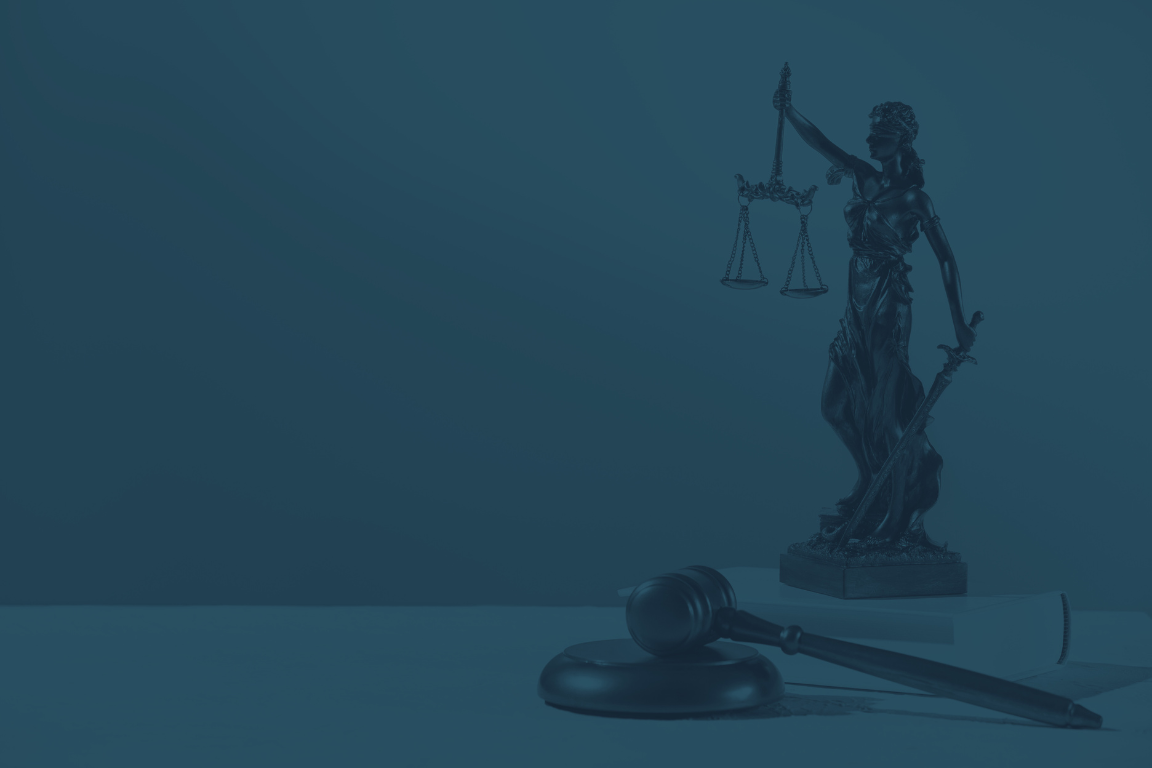
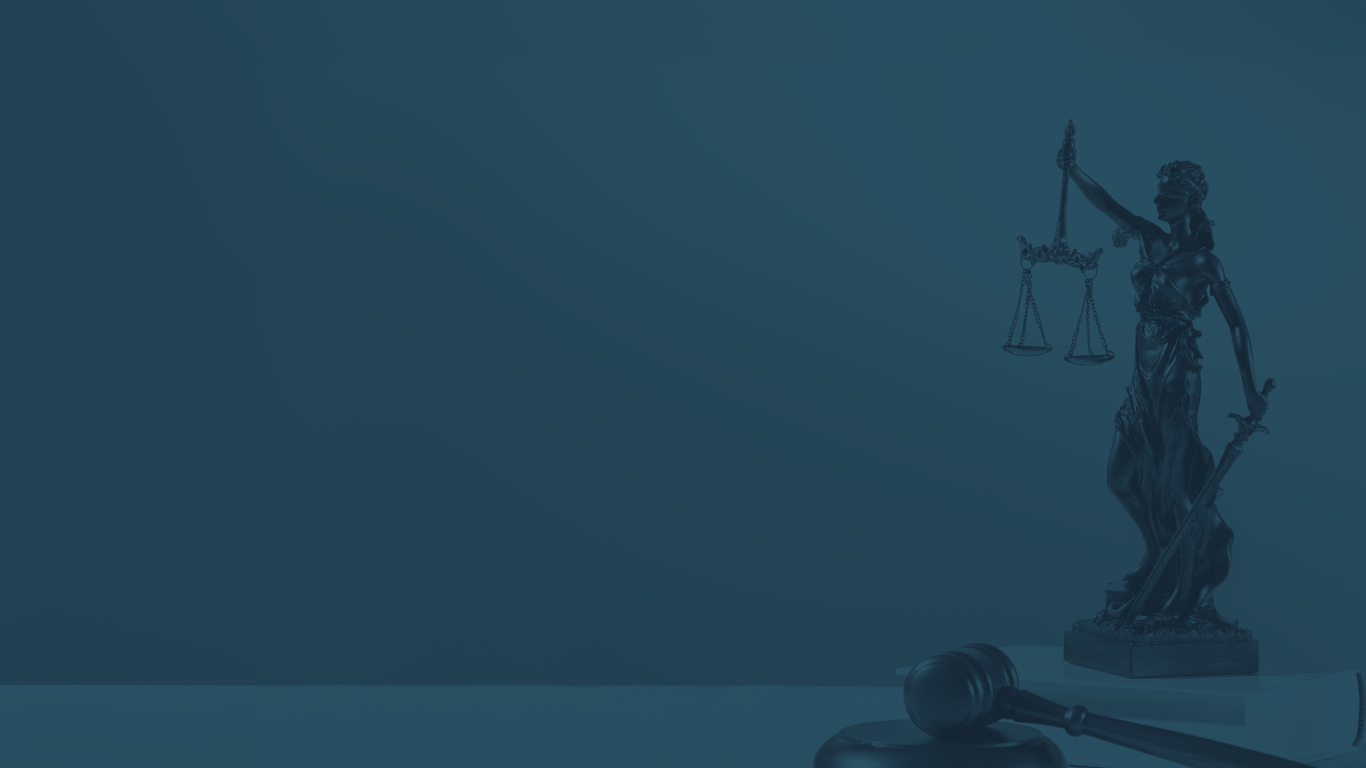
login page re-design

Changed region(s): [[0.4688, 0.0938, 0.9688, 1.0], [0.625, 0.3438, 0.6562, 0.375]]

diff --git a/src/screens/LoginScreen.css b/src/screens/LoginScreen.css
@@ -1,5 +1,12 @@
 body {
-    background-color: #333e54;
+    background-color: #295264;
+    background-image: url(../assets/images/blue_bg.png);
+    background-size: cover;
+    background-position: center;
+    background-repeat: no-repeat;
+    height: 100vh;
+
+    font-family: 'Poppins', sans-serif;
     display: flex;
     justify-content: center;
     align-items: center;
@@ -7,34 +14,56 @@ body {
     margin: 0;
 }
 
+body::before {
+    content: "";
+    position: absolute;
+    top: 0;
+    left: 0;
+    right: 0;
+    bottom: 0;
+    background-image: inherit; /* Usa a mesma imagem */
+    background-size: inherit;
+    background-position: inherit;
+    filter: blur(2px); /* Intensidade do blur */
+    z-index: -1;
+}
 
 .login-container {
-    width: 500px;
+    min-width: 35vw;
+    min-height: 40vh;
     background-color: #fff;
     padding: 40px 30px;
-    border-radius: 10px;
-    box-shadow: 0 4px 20px rgba(0, 0, 0, 0.2);
+    border-radius: 35px;
+    box-shadow: 0 4px 20px #142433;
     text-align: center;
+    font-family: 'Poppins', sans-serif;
 }
 
 .login-container h1 {
-    font-size: 24px;
-    color: #000000;
-    margin-bottom: 20px;
-    font-weight: bold;
+    font-size: 25px;
+    color: #142433;
+    margin-bottom: 0px;
+    font-weight: bolder;
+}
+
+.login-container .welcome-subtitle {
+    font-size: 20px;
+    color: #142433;
+    margin-bottom: 6px;
+    font-weight: normal;
 }
 
 .login-container .login-input-field {
     position: relative;
-    margin-bottom: 20px;
+    margin: 20px 0;
 }
 
 .login-input-field input {
     width: 100%;
     padding: 20px;
-    border-radius: 8px;
-    border: 1px solid #000000;
-    font-size: 16px;
+    border-radius: 30px;
+    border: 2px solid #FAD9A6;
+    font-size: 15px;
     outline: none;
     box-sizing: border-box;
 }
@@ -44,7 +73,7 @@ body {
     top: 50%;
     right: 15px;
     transform: translateY(-50%);
-    color: #000000;
+    color: #FAD9A6;
     font-size: 18px;
 }
 
@@ -53,10 +82,11 @@ body {
     justify-content: space-between;
     font-size: 14px;
     margin-bottom: 20px;
+    margin-left: 10px;
 }
 
 .login-password-forget a {
-    color: #333e54;
+    color: #142433;
     text-decoration: none;
 }
 
@@ -65,9 +95,9 @@ body {
 }
 
 .login-container button {
-    width: 50%;
+    width: 70%;
     padding: 12px 0;
-    background-color: #333e54;
+    background-color: #142433;
     color: #fff;
     border: none;
     border-radius: 25px;
@@ -78,5 +108,5 @@ body {
 }
 
 .login-container button:hover {
-    background-color: #444d6e;
+    background-color: #295264;
 }

diff --git a/src/screens/LoginScreen.jsx b/src/screens/LoginScreen.jsx
@@ -4,7 +4,7 @@ import { useState } from "react";
 import axios from 'axios';
 import { useNavigate } from 'react-router-dom'; 
 import './LoginScreen.css';
-
+import logo_notajuris from '../assets/images/logo_notajuris_invert.svg'
 
 const LoginScreen = () => {
   const [loginNumber, setLoginNumber] = useState("");
@@ -57,7 +57,9 @@ const LoginScreen = () => {
     <div className="login-background">
       <div className="login-container">
       <form onSubmit={handleSubmit}>
-        <h1>Acesse o Sistema</h1>
+        <img src={logo_notajuris} alt="Logo NotaJuris" className="NavbarLogo" />
+        <h1>Seja bem-vindo!</h1>
+        <span className='welcome-subtitle'>Acesso ao sistema</span>
         <div className="login-input-field">
           <input 
             type="text" 
@@ -78,7 +80,7 @@ const LoginScreen = () => {
         </div>
 
         <div className="login-password-forget">
-          <a href="#">Esqueceu a senha?</a>
+          <a href="#">Esqueci minha senha</a>
         </div>
 
         {errorMessage && <p style={{ color: 'red' }}>{errorMessage}</p>}

diff --git a/src/index.css b/src/index.css
@@ -1,8 +1,8 @@
-@import url('https://fonts.googleapis.com/css2?family=Montserrat:ital,wght@0,100..900;1,100..900&display=swap');
+@import url('https://fonts.googleapis.com/css2?family=Montserrat:ital,wght@0,100..900;1,100..900&family=Poppins:ital,wght@0,100;0,200;0,300;0,400;0,500;0,600;0,700;0,800;0,900;1,100;1,200;1,300;1,400;1,500;1,600;1,700;1,800;1,900&display=swap');
 
 body {
   margin: 0;
-  font-family: 'Montserrat', sans-serif;
+  font-family: 'Poppins', sans-serif;
 
   /* font-family: -apple-system, BlinkMacSystemFont, 'Segoe UI', 'Roboto', 'Oxygen',
     'Ubuntu', 'Cantarell', 'Fira Sans', 'Droid Sans', 'Helvetica Neue', 

diff --git a/src/App.css b/src/App.css
@@ -38,5 +38,4 @@
   }
 }
 
-@import url('https://fonts.googleapis.com/css2?family=Montserrat:ital,wght@0,100..900;1,100..900&display=swap');
-
+@import url('https://fonts.googleapis.com/css2?family=Montserrat:ital,wght@0,100..900;1,100..900&family=Poppins:ital,wght@0,100;0,200;0,300;0,400;0,500;0,600;0,700;0,800;0,900;1,100;1,200;1,300;1,400;1,500;1,600;1,700;1,800;1,900&display=swap');
